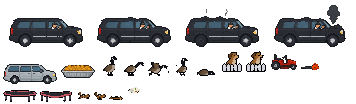
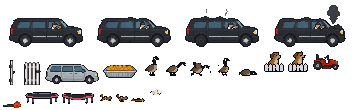
New art: backyard gate; sprinkler stays original
The redrawn gate shrinks cleanly with colour averaging. The redrawn
sprinkler's jet is a one-pixel line that does not read as something to
ride, so the original fan of spray stays.

Claude-Session: https://claude.ai/code/session_01HcPT62ga3VdbvigAiCuo52

diff --git a/ASSETS.md b/ASSETS.md
@@ -3,7 +3,7 @@
 > **Generated by `npm run assets`** from `tools/assets/manifest.mjs`. Edit the manifest, not this file:
 > every run rewrites it with the current status of every asset.
 
-**138 assets** — ✅ 80 processed · 🟨 0 raw (waiting or failed) · ⬜ 58 missing
+**138 assets** — ✅ 81 processed · 🟨 0 raw (waiting or failed) · ⬜ 57 missing
 
 ## How to add art
 
@@ -111,7 +111,7 @@ The quick way, many assets per ChatGPT image: see **[ART_BATCHES.md](ART_BATCHES
 | [Leaf blower](#blower) | 3 | ✅ processed | `blower.png` | 120×120 | 1 |
 | [Wind puff](#wind_puff) | 3 | ✅ processed | `wind_puff.png` | 96×48 | 1 |
 | [Trampoline](#trampoline) | 3 | ✅ processed | `trampoline.png` | 216×96 | 2 |
-| [Backyard gate](#gate) | 3 | ⬜ missing | `gate.png` | 120×216 | 2 |
+| [Backyard gate](#gate) | 3 | ✅ processed | `gate.png` | 120×216 | 2 |
 | [Minivan](#minivan) | 3 | ✅ processed | `minivan.png` | 336×204 | 1 |
 | [Boss — the Escalade](#escalade) | 3 | ✅ processed | `escalade.png` | 528×276 | 4 |
 | [World 2 prize — poppers](#goal_poppers) | 3 | ✅ processed | `goal_poppers.png` | 216×168 | 1 |
@@ -1882,7 +1882,7 @@ Background rules: a PNG with a real transparent background (alpha channel). Noth
 
 ### gate
 
-**Backyard gate** — ⬜ missing
+**Backyard gate** — ✅ processed
 
 - **Drop as:** `assets/raw/gate.png`
 - **Game file:** `sprites/gate.png` → atlas `assets/processed/atlases/world2.png`; 1080p master `assets/processed/hd/sprites/gate.png`

diff --git a/ART_BATCHES.md b/ART_BATCHES.md
@@ -10,7 +10,7 @@ Each batch is **one ChatGPT request** that makes many pieces of art in one pictu
 3. Save what comes back as `assets/raw/batches/<batch id>.png` and run `npm run assets`. It is cut into its pieces
    on its own. If one row comes out badly, redo just that piece and save it in `assets/raw/` under its own name.
 
-**51 of 53 pieces done across 12 batches.**
+**52 of 53 pieces done across 12 batches.**
 
 ## ✅ Batch 1 — Map screen and title
 
@@ -70,7 +70,7 @@ Keep the colours calm and slightly muted, so the characters stand out in front.
 
 ## 🟨 Batch 4 — World 2 creatures and traps
 
-4 of 6 done · save as `assets/raw/batches/batch_w2_creatures.png` · reference `assets/reference/batches/batch_w2_creatures.png`
+5 of 6 done · save as `assets/raw/batches/batch_w2_creatures.png` · reference `assets/reference/batches/batch_w2_creatures.png`
 
 ```text
 Match the Bochur Bros style exactly, using my reference images. The last reference image shows the current version of each row: redraw them in the better style.
